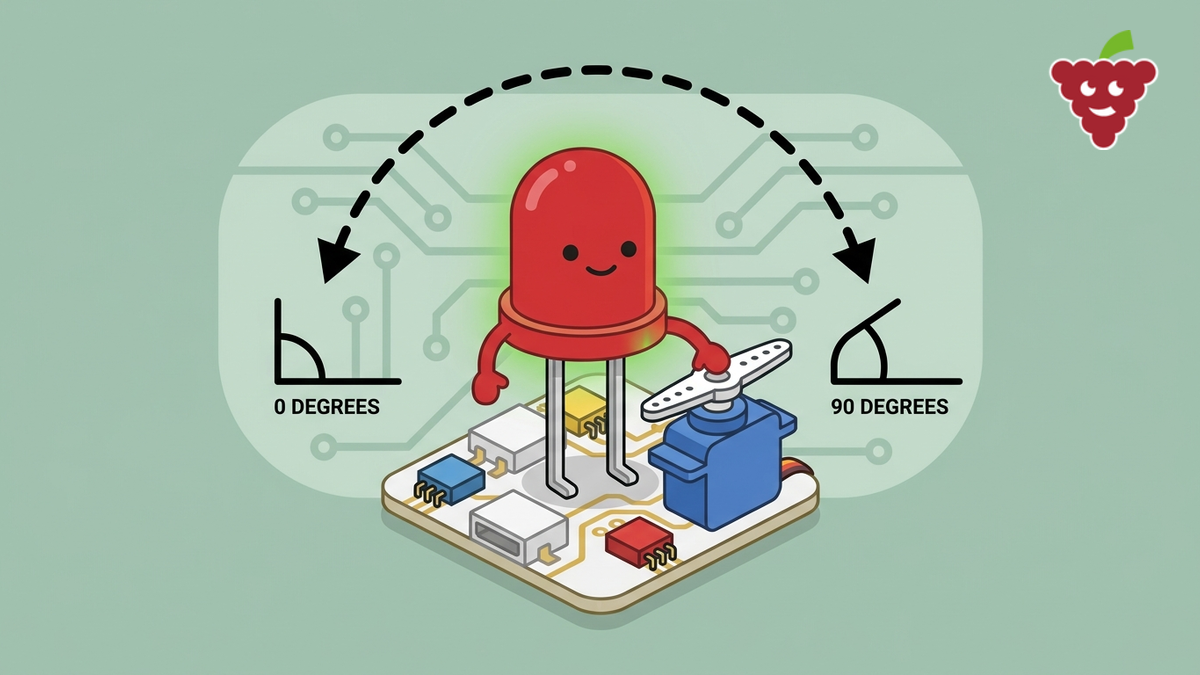
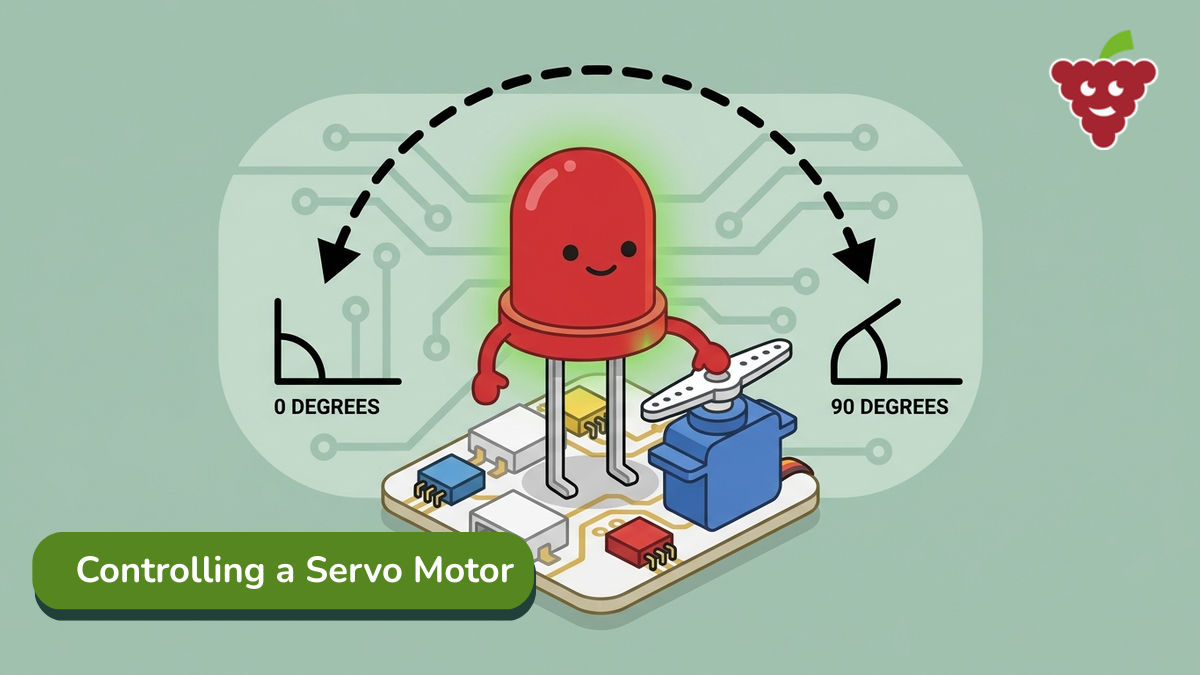
Added all picobricks tutorials that have accompnying videos

Changed region(s): [[0.0, 0.7778, 0.4625, 0.9333]]

diff --git a/content/learn/picobricks/temperature-monitoring/index.md b/content/learn/picobricks/temperature-monitoring/index.md
@@ -1,0 +1,85 @@
+---
+platform: picobricks
+level: Beginner
+duration: 15 mins
+kit:
+    - PicoBricks Kit
+    - PicoBricks Brick IDE
+    - MicroUSB to USB cable
+    - Laptop or tablet for coding
+image: /learn/picobricks/temperature-monitoring/cover.png
+youtube: https://youtu.be/K-ZN9wmLokk
+---
+
+# Temperature Monitoring
+
+::::tutorial-steps
+
+:::step{title="Overview"}
+Within this PicoBricks tutorial we're going to use the :g[temperature sensor]{slug="temperature-sensor"} to sense the temperature of the room you're in. The temperature is then outputted to the :g[OLED screen]{slug="oled-screen"}.
+
+::callout{icon="🎯" color="green"}
+**What you'll learn**
+- How to sense the temperature of a room through code
+- How to output the temperature to the OLED screen
+::
+:::
+
+:::step{title="What you'll need"}
+::what-youll-need
+::
+:::
+
+:::step{title="Key words"}
+::key-words{:terms="temperature-sensor, oled-screen, forever-loop"}
+::
+:::
+
+:::step{title="Set up your PicoBricks"}
+1. Open your favourite web browser. We recommend either Google Chrome or Microsoft Edge. Type [ide.picobricks.com](http://ide.picobricks.com) into the address bar.
+2. Connect the PicoBricks board to your computer using the USB cable.
+3. Connect the PicoBricks board to the Brick IDE by selecting the **Connection** button at the top of the code area.
+
+![The PicoBricks Brick IDE coding environment](/learn/picobricks/temperature-monitoring/CodingEnvironment.webp)
+:::
+
+:::step{title="Build the code"}
+1. Select **Basic**. Select a `PicoBricks` block and drop it in the code area.
+2. Select **Loops**. Select a `forever` block and snap it to the `PicoBricks` block.
+3. Select **Display**. Select a `Clear Screen Buffer` block and snap it within the `forever` block.
+4. Select **Display**. Select a `Write Text to Screen` block and snap it to the `Clear Screen Buffer` block. Change the **X** value to **15**, the **Y** value to **10** and **PicoBricks** to **Temperature:**.
+5. Select **Display**. Select a `Write Text to Screen` block and snap it to the `Write Text to Screen X 15 Y 10 "Temperature:"` block. Change the **X** value to **55** and the **Y** value to **30**.
+6. Select **Bricks**. Select a `Read Temperature` block and snap it onto the `Write Text to Screen` block where it says **PicoBricks**.
+7. Select **Display**. Select a `Write Text to Screen` block and snap it to the `Write Text to Screen X 55 Y 30 Read Temperature` block. Change the **X** value to **35**, the **Y** value to **50** and **PicoBricks** to **Degrees**.
+8. Select **Display**. Select a `Show Screen Buffer` block and snap it to the `Write Text to Screen X 35 Y 50 "Degrees"` block.
+9. Select **Loops**. Select a `wait` block and snap it to the `Show Screen Buffer` block.
+
+![The completed block code for temperature monitoring](/learn/picobricks/temperature-monitoring/TemperatureSensingCode.webp)
+
+We've now completed the code for our temperature monitor.
+:::
+
+:::step{title="Run it and watch"}
+1. Select the **run** button at the top of the code window.
+
+You should now see the live temperature displayed on the OLED screen. 🎉
+
+![The live room temperature shown on the OLED screen](/learn/picobricks/temperature-monitoring/TemperatureMonitoring.gif)
+:::
+
+:::step{title="Try it yourself"}
+::try-it
+**Challenge:** Can you make your project react to the temperature? Try adding an **if statement** so the screen shows a message like `Too hot!` when the temperature climbs above a number you choose (your **threshold**). For an extra challenge, light up an **LED** whenever the room gets warm.
+::
+:::
+
+:::step{title="Stuck? Quick fixes"}
+| Problem | Try this |
+| --- | --- |
+| PicoBricks won't connect, or the connect button stays greyed out | Check the USB cable is pushed in at both ends, click the **Connection** button at the top of the code area, and use Google Chrome or Microsoft Edge. |
+| Nothing appears on the OLED screen | Make sure your `Clear Screen Buffer` and `Show Screen Buffer` blocks are in place, and that all your blocks are snapped inside the `forever` loop. |
+| The temperature shows once but never changes | Check the `Read Temperature` block is snapped into the `Write Text to Screen` block, and that a `wait` block sits inside the `forever` loop so it keeps refreshing. |
+| The words overlap or sit in the wrong place | Have a look at your **X** and **Y** values, they set where each piece of text sits on the screen. |
+:::
+
+::::

diff --git a/content/learn/picobricks/using-the-button/index.md b/content/learn/picobricks/using-the-button/index.md
@@ -1,0 +1,84 @@
+---
+platform: picobricks
+level: Beginner
+duration: 10 mins
+kit:
+    - PicoBricks Kit
+    - PicoBricks Brick IDE
+    - MicroUSB to USB cable
+    - Laptop or tablet for coding
+image: /learn/picobricks/using-the-button/cover.png
+youtube: https://youtu.be/HGowhuRMlRM
+---
+
+# Using the Button
+
+::::tutorial-steps
+
+:::step{title="Overview"}
+Within this guide we're going to use the push :g[button]{slug="button"} to control an :g[LED]{slug="led"} by coding our PicoBricks board.
+
+::callout{icon="🎯" color="green"}
+**What you'll learn**
+- How to control an LED using a button
+::
+:::
+
+:::step{title="What you'll need"}
+::what-youll-need
+::
+:::
+
+:::step{title="Key words"}
+::key-words{:terms="button, led, forever-loop, if-statement"}
+::
+:::
+
+:::step{title="Set up your PicoBricks"}
+1. Open your favourite web browser. We recommend either Google Chrome or Microsoft Edge. Type [ide.picobricks.com](http://ide.picobricks.com) into the address bar.
+2. Connect the PicoBricks board to your computer using the USB cable.
+3. Connect the PicoBricks board to the Brick IDE by selecting the **Connection** button at the top of the code area.
+
+![The PicoBricks Brick IDE coding environment](/learn/picobricks/using-the-button/CodingEnvironment.webp)
+:::
+
+:::step{title="Build the code"}
+1. Select **Basic**. Select and drag a `PicoBricks` block to the code area and drop it.
+2. Select **Loops**. Select a `forever` block and snap it to the `PicoBricks` block.
+3. Select **Logic**. Select an `if else` block and snap it inside the `forever` block.
+4. Select **Logic**. Select an `=` block and snap it onto the `if` block.
+5. Select **Bricks**. Select a `Read Button` block and snap it within the first blank space of the `if` block, before the **=** sign.
+6. Select **Math**. Select a `0` block and snap it in the blank space after the **=** sign. Change the **0** to **1**.
+7. Select **Bricks**. Select a `Set Led on` block and snap it within the `if` block.
+8. Select **Bricks**. Select a `Set Led on` block and snap it within the `else` block. Change the **on** to **off**.
+
+![The completed block code for the button-controlled LED](/learn/picobricks/using-the-button/CompletedButtonCode.webp)
+
+We've now completed the code for our button-controlled LED.
+:::
+
+:::step{title="Run it and watch"}
+1. Select the **run** button at the top of the code window.
+2. Press the button on your PicoBricks board.
+
+When the button is pressed you should see the LED turn on, and switch off again when you let go. 🎉
+
+![The LED turning on while the button is pressed](/learn/picobricks/using-the-button/UsingTheButtonDemo.gif)
+:::
+
+:::step{title="Try it yourself"}
+::try-it
+**Challenge:** Now you can switch a light on with a button, what else could you control? Try swapping a `Set Led` block for a different brick, like making the buzzer beep while the button is held down. Can you get two things to happen from one press?
+::
+:::
+
+:::step{title="Stuck? Quick fixes"}
+| Problem | Try this |
+| --- | --- |
+| The LED doesn't come on when I press the button | Check the USB cable is pushed in at both ends and that the Brick IDE shows it's connected to your PicoBricks board. Then check the `Read Button` block is snapped into the `if` block, before the `=` sign. |
+| The LED stays on all the time | Look at your `if` and `else` blocks and make sure the right `Set Led` block sits inside each one, so the light knows when to switch on and when to switch off. |
+| The blocks won't snap together | Drop each block just inside the one above it. The `if else` block needs to sit inside the `forever` loop, and the `Read Button`, `=` and `0` blocks all tuck into the top of the `if`. |
+| Nothing happens when I press run | Reconnect the board using the **Connection** button at the top of the code area, then press **run** again. Unplugging the USB cable and plugging it back in often helps too. |
+:::
+
+::::

diff --git a/content/learn/picobricks/dimmable-led/index.md b/content/learn/picobricks/dimmable-led/index.md
@@ -1,0 +1,81 @@
+---
+platform: picobricks
+level: Beginner
+duration: 15 mins
+kit:
+  - PicoBricks
+  - Raspberry Pi Pico
+  - USB to MicroUSB cable
+image: /learn/picobricks/dimmable-led/cover.png
+youtube: https://youtu.be/u5CaiNAMwkI
+---
+
+# Dimmable LED
+
+::::tutorial-steps
+
+:::step{title="Overview"}
+
+In this tutorial we're going to use the :g[RGB LED]{slug="rgb-led"} and the :g[potentiometer]{slug="potentiometer"} on the :g[PicoBricks]{slug="picobricks"} board to make a dimmable lighting system.
+
+::callout{icon="🎯" color="green"}
+**What you'll learn**
+- How to control the RGB LED using the potentiometer.
+::
+:::
+
+:::step{title="What you'll need"}
+::what-youll-need
+::
+:::
+
+:::step{title="What you'll need"}
+::key-words{terms="potentiometer,rgb-led,variable,forever-loop"}
+::
+:::
+
+:::step{title="Set up your PicoBricks"}
+1. Connect the PicoBricks board to your computer using the USB cable.
+2. Open your favourite web browser (we recommend Google Chrome or Microsoft Edge), go to [ide.picobricks.com](https://ide.picobricks.com) and select **PicoBlockly**.
+3. Connect the board to the coding environment by selecting the **connect** button at the top of the code area.
+
+![The PicoBlockly coding environment](/learn/picobricks/dimmable-led/coding-environment.webp)
+:::
+
+:::step{title="Build the code"}
+1. Select **Basic**. Drag a `PicoBricks` block into the code area.
+2. Select **Loops**. Snap a `forever` block onto the \`PicoBricks\` block.
+3. Select **Variables**. Select **Create variable** and type **Colour**. Snap a `set Colour to` block inside the forever block.
+4. Select **Math**. Snap a `round` block onto the `set Colour to` block.
+5. Select **Math**. Snap a `1 + 1` block onto the `round` block, then change the **+** to a **x**.
+6. Select **Bricks**. Snap a `Read Potentiometer` block onto the `round` block, before the **x** sign.
+7. Select **Math**. Snap another `1 + 1` block onto the `round` block, after the **x**. Change the first **1** to **255**, the **+** to **÷** and the remaining **1** to **65535**.
+8. Select **RGB LED**. Snap a `Set RGB Led Colour R 255 G 255 B 255` block under the `set Colour to` block.
+9. Select **Variables**. Snap a `Colour` block into the **R** value of the `Set RGB Led Colour` block.
+10. Do the same as **step 9** for the **G** and **B** values.
+
+![The completed dimmable LED code](/learn/picobricks/dimmable-led/completed-code.webp)
+:::
+
+:::step{title="Run it and Watch"}
+Now the code's finished, let's test it. Select the **Run** button at the top of the code area. Turn the potentiometer to see the LED get brighter or dimmer, right down until it goes out, depending on which way you turn it.
+
+![The dimmable LED fading up and down as the potentiometer turns](/learn/picobricks/dimmable-led/demo.gif)
+:::
+
+:::step{title="Try it yourself"}
+::try-it
+**Challenge:** Can you make your dial control just one colour? Try setting the **G** and **B** values to \`0\` and leave only the **R** value linked to the potentiometer, so your knob fades a red glow from bright to off. Then have a go at swapping it to just green, or just blue. What happens if you mix two colours together?
+::
+:::
+
+:::step{title="Stuck? Quick fixes"}
+
+| Problem | Try this |
+| --- | --- |
+| The LED doesn't light up at all | Check PicoBricks is connected using the connect button at the top of the code area, then press **Run** again. |
+| The brightness doesn't change when you turn the dial | Check your \`Read Potentiometer\` block is inside the \`round\` block, just before the **x**, and that the maths reads \`x 255 ÷ 65535\`. |
+| The colour looks wrong or flickers | Make sure the same \`Colour\` variable is dropped into all three slots (**R**, **G** and **B**). |
+| PicoBricks won't connect | Try a different USB cable or port, check you picked **PicoBlockly**, and press the connect button again. |
+:::
+::::

diff --git a/content/learn/picobricks/controlling-a-servo-motor/index.md b/content/learn/picobricks/controlling-a-servo-motor/index.md
@@ -7,6 +7,7 @@ kit:
   - Servo motor
   - USB to MicroUSB cable
 image: /learn/picobricks/controlling-a-servo-motor/servo-cover.png
+youtube: https://youtu.be/SVJ-3dk5TyU
 ---
 
 # Controlling a Servo Motor
@@ -49,17 +50,17 @@ Connect the servo motor to the top connector of the motor controller with the ye
 :::
 
 :::step{title="Build the code"}
-1. Select **Basic**. Drag a \`PicoBricks\` block into the code area.
-2. Select **Loops**. Snap a :g[forever]{slug="forever-loop"} block onto the \`PicoBricks\` block.
-3. Select **Motor**. Snap a \`Set Servo M1 Angle 180\` block inside the forever block. Change **M1** to **M2**, and change **180** to **90**.
-4. Select **Loops**. Snap a \`wait\` block under the \`Set Servo M2 Angle 90\` block.
-5. Select **Motor**. Add another \`Set Servo M1 Angle 180\` block under the \`wait 1\` block. Change **M1** to **M2** and **180** to **0**.
-6. Select **Loops**. Snap a \`wait\` block under the \`Set Servo M2 Angle 0\` block.
+1. Select **Basic**. Drag a `PicoBricks` block into the code area.
+2. Select **Loops**. Snap a `forever` block onto the `PicoBricks` block.
+3. Select **Motor**. Snap a `Set Servo M1 Angle 180` block inside the forever block. Change **M1** to **M2**, and change **180** to **90**.
+4. Select **Loops**. Snap a `wait` block under the `Set Servo M2 Angle 90` block.
+5. Select **Motor**. Add another `Set Servo M1 Angle 180` block under the `wait 1` block. Change **M1** to **M2** and **180** to **0**.
+6. Select **Loops**. Snap a `wait` block under the \`Set Servo M2 Angle 0\` block.
 
 ![The completed servo motor code](/learn/picobricks/controlling-a-servo-motor/completed-code.webp)
 :::
 
-:::step{title="Run your code"}
+:::step{title="Run it and Watch"}
 Now the code's finished, let's run it. Select the **Run** button at the top of the code area. You should see the little arm on the servo motor move between 90 and 0 degrees.
 
 ![The servo motor arm moving between 90 and 0 degrees](/learn/picobricks/controlling-a-servo-motor/demo.gif)
